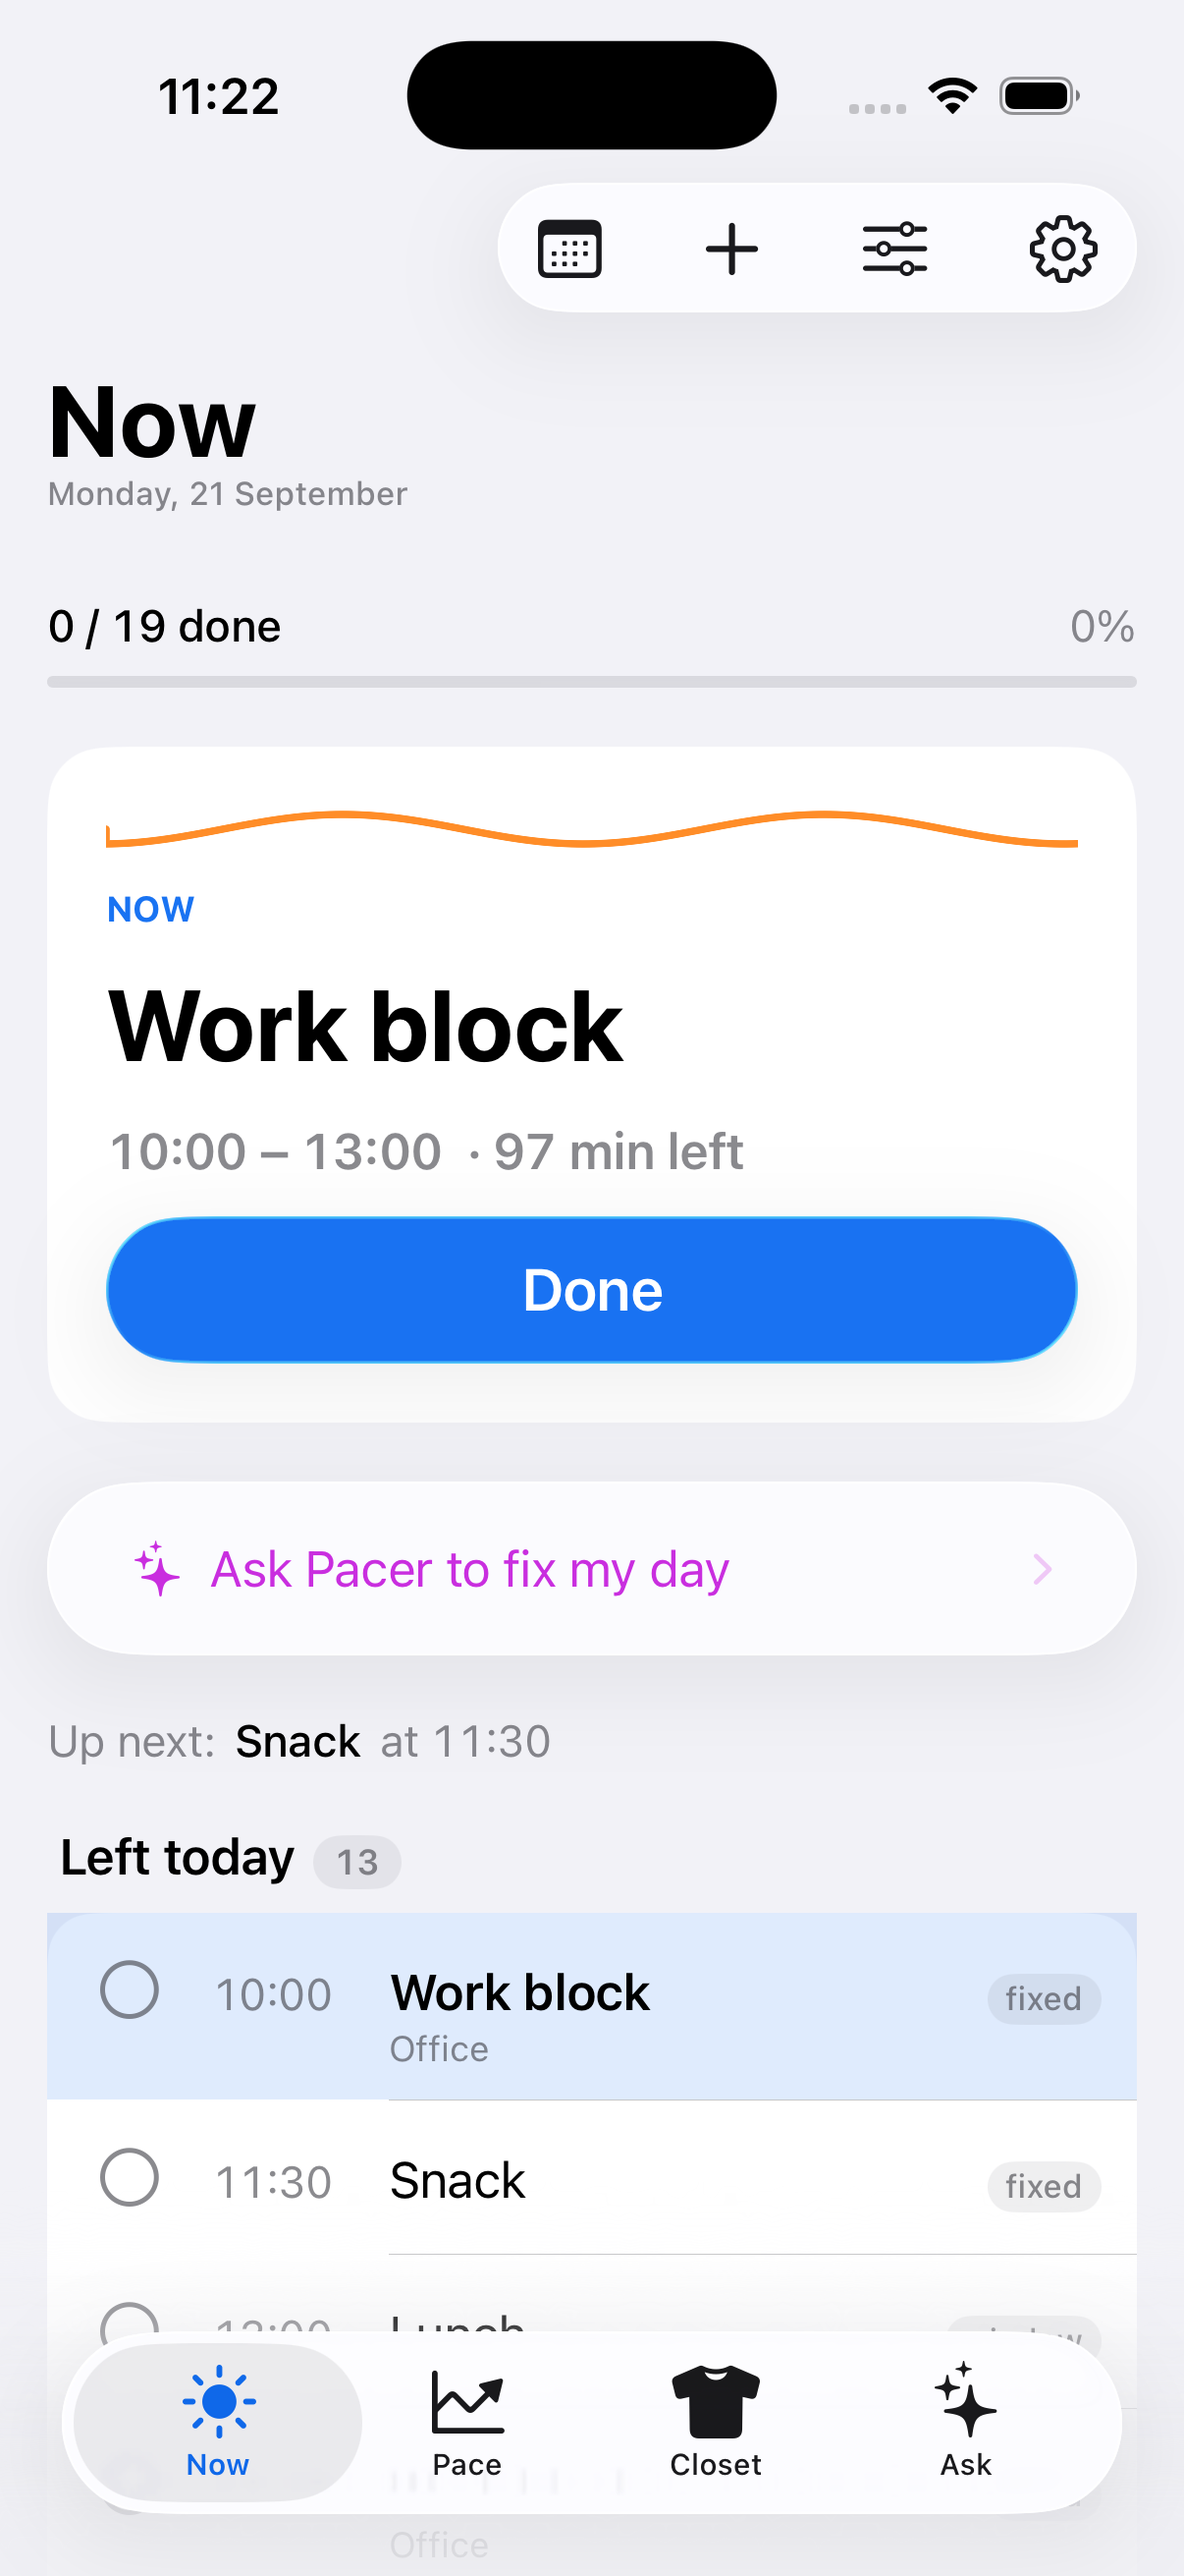
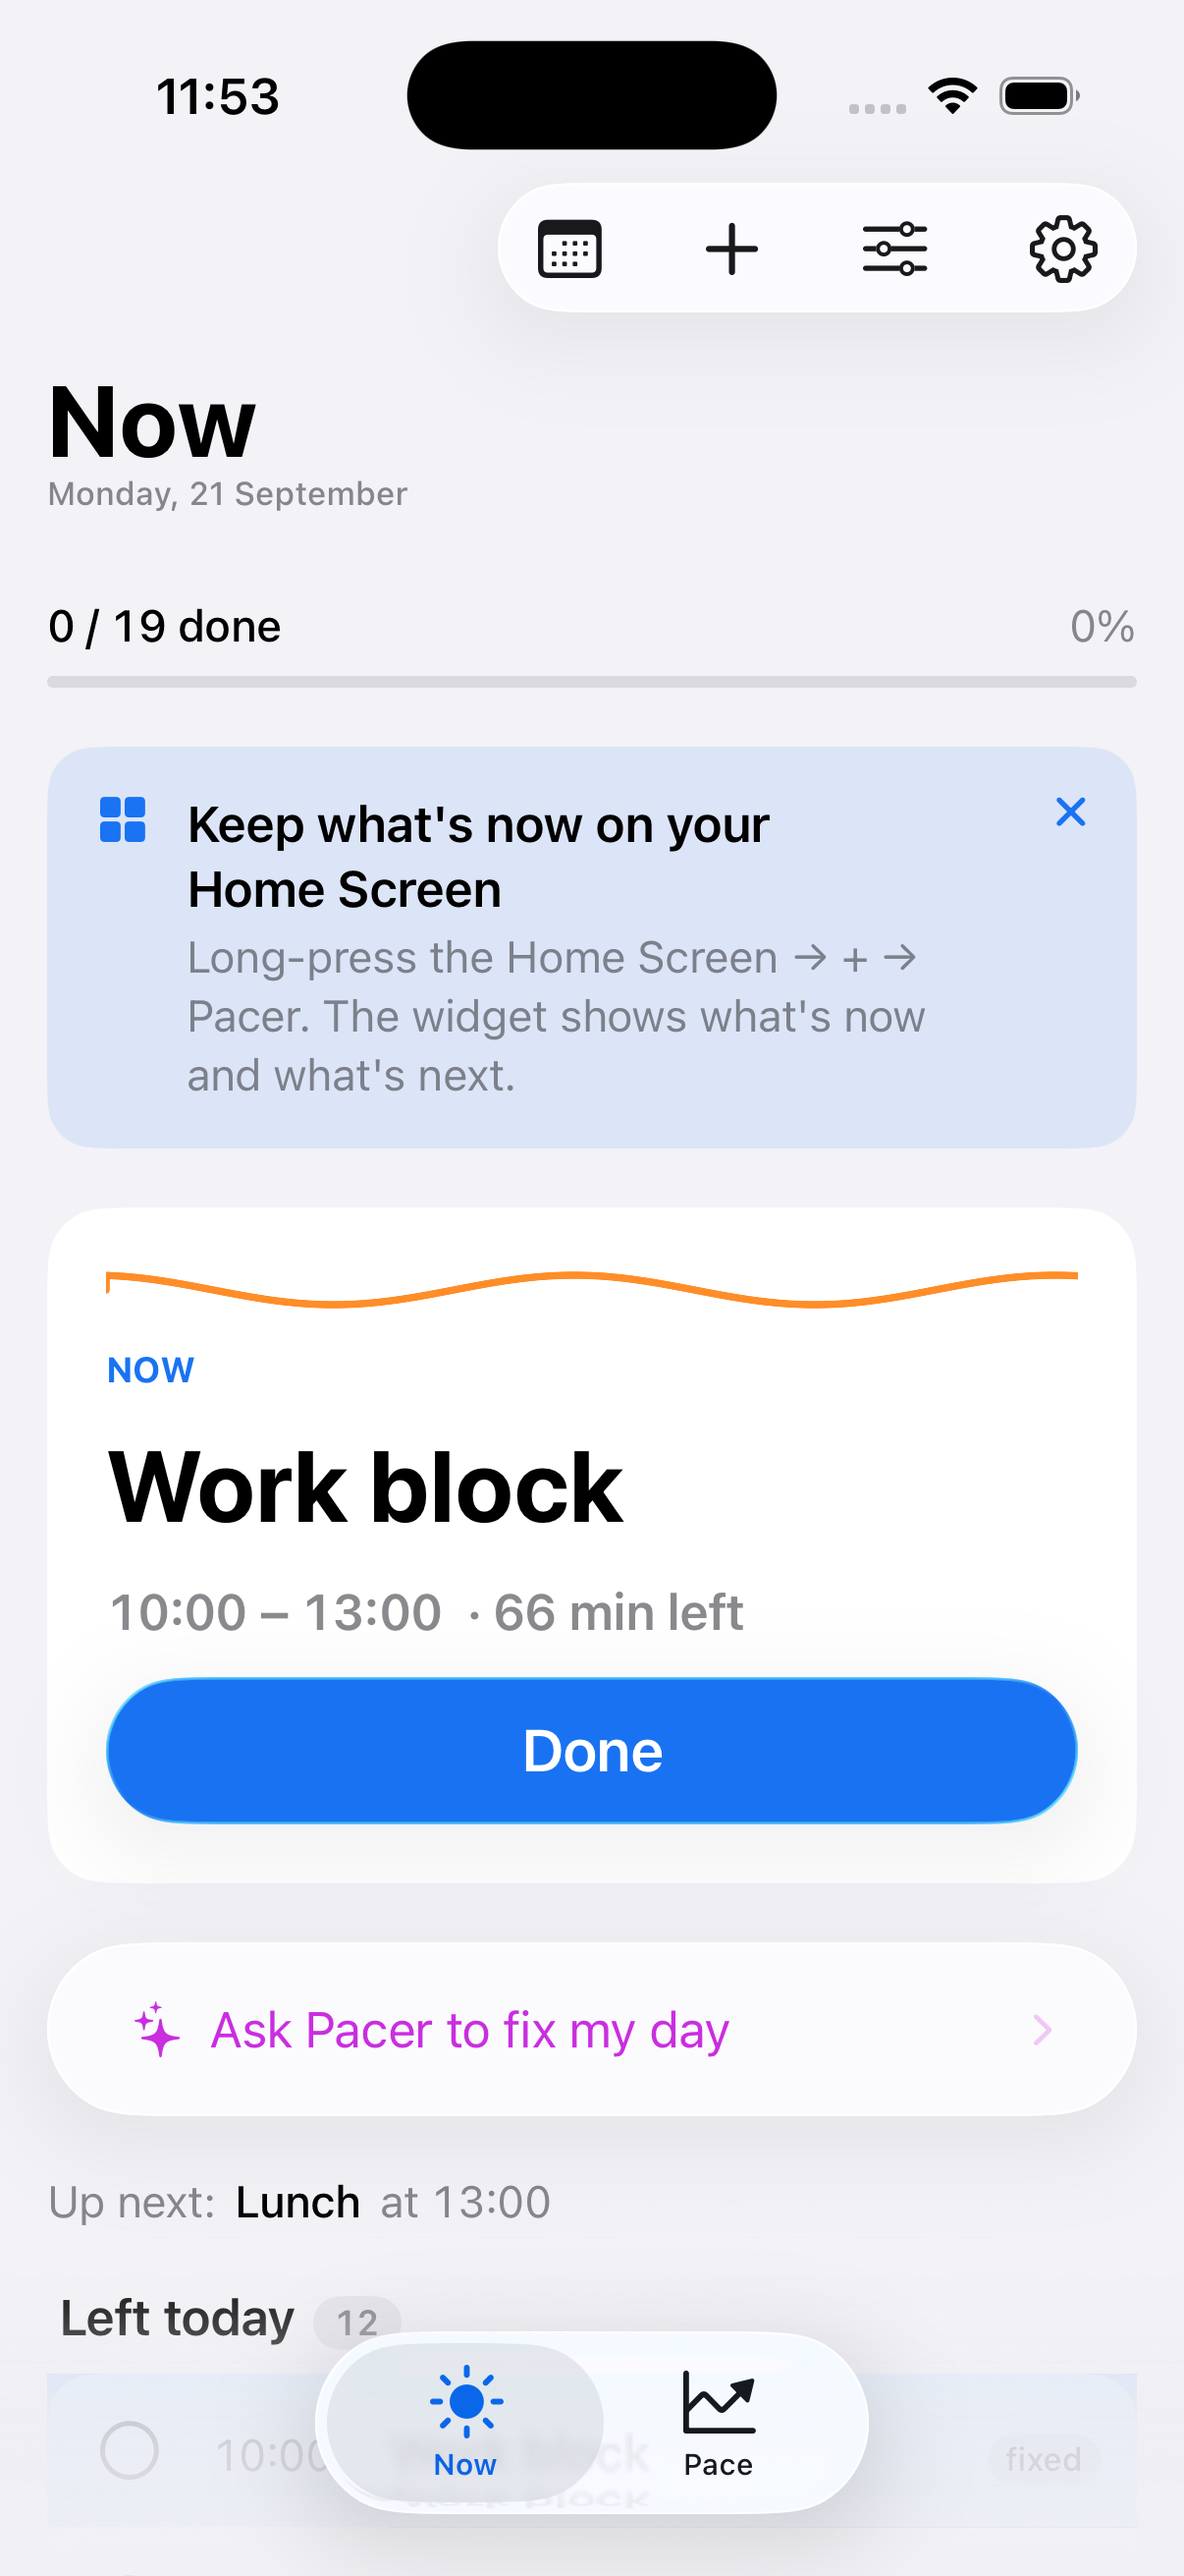
Tone pass and the day-2 widget card (#57)
- Misses are decisions, not failures: orange instead of red everywhere on
  Now, "Needs a decision" instead of "Missed", "SLIPPED" instead of
  "OVERDUE", Done stays the accent colour. The evening review lists what
  got done first.
- A dismissable card on Now for the first three days: how to add the
  widget, so Pacer stays in sight after day 2 (USERS.md #6). The block
  Live Activity already starts on the first block (liveActivity default).

Closes #52, closes #53.

Claude-Session: https://claude.ai/code/session_01BwgQ6cpAnmscoVwwfDapLT

diff --git a/Sources/Views/DayView.swift b/Sources/Views/DayView.swift
@@ -24,6 +24,7 @@ struct DayView: View {
     @State private var showTomorrow = false
     @State private var showingDays = false
     @State private var openDay: Date?
+    @State private var widgetCardDismissed = UserDefaults.standard.bool(forKey: "widgetCardDismissed")
     private var persistence: PersistenceState { PersistenceState.shared }
 
     private let calendar = Calendar.current
@@ -60,6 +61,7 @@ struct DayView: View {
                     progress
                     if let error = persistence.lastError { persistenceBanner(error) }
                     if notificationsDenied && !bannerDismissed { permissionBanner }
+                    if showWidgetCard { widgetCard }
                     NowCard(
                         block: current,
                         allDone: doneCount == counted.count,
@@ -78,7 +80,7 @@ struct DayView: View {
                     section("Left today", count: leftToday.count, blocks: leftToday, empty: "Nothing left on the plan.")
                     if isEvening && !missed.isEmpty { review }
                     else if !missed.isEmpty {
-                        section("Missed", count: missed.count, blocks: missed, empty: nil, hint: "Hold a row to move it later or skip it today.")
+                        section("Needs a decision", count: missed.count, blocks: missed, empty: nil, hint: "Hold a row to move it later or skip it today.")
                     }
                     if !finished.isEmpty { section("Done", count: nil, blocks: finished, empty: nil) }
                     tomorrow
@@ -209,6 +211,35 @@ struct DayView: View {
         .background(Color.red.opacity(0.12), in: RoundedRectangle(cornerRadius: 16))
     }
 
+    /// Day 1–3: the one thing that keeps Pacer in sight after the app is forgotten (USERS.md #6).
+    private var showWidgetCard: Bool {
+        guard !widgetCardDismissed, !plan.needsOnboarding else { return false }
+        let key = "firstLaunchDay"
+        if UserDefaults.standard.object(forKey: key) == nil { UserDefaults.standard.set(now, forKey: key) }
+        let first = UserDefaults.standard.object(forKey: key) as? Date ?? now
+        return (calendar.dateComponents([.day], from: first, to: now).day ?? 0) < 3
+    }
+
+    private var widgetCard: some View {
+        HStack(alignment: .top, spacing: 12) {
+            Image(systemName: "square.grid.2x2.fill").foregroundStyle(Color.accentColor)
+            VStack(alignment: .leading, spacing: 4) {
+                Text("Keep what's now on your Home Screen").font(.headline)
+                Text("Long-press the Home Screen → + → Pacer. The widget shows what's now and what's next.")
+                    .font(.subheadline).foregroundStyle(.secondary)
+            }
+            Spacer()
+            Button {
+                widgetCardDismissed = true
+                UserDefaults.standard.set(true, forKey: "widgetCardDismissed")
+            } label: { Image(systemName: "xmark").font(.caption.weight(.bold)) }
+                .accessibilityLabel("Dismiss")
+        }
+        .padding()
+        .background(Color.accentColor.opacity(0.10), in: RoundedRectangle(cornerRadius: 16))
+        .transition(.opacity)
+    }
+
     private var permissionBanner: some View {
         HStack(alignment: .top, spacing: 12) {
             Image(systemName: "bell.slash.fill").foregroundStyle(.orange)
@@ -259,8 +290,8 @@ struct DayView: View {
                 if let count {
                     Text("\(count)").font(.caption.weight(.semibold)).monospacedDigit()
                         .padding(.horizontal, 7).padding(.vertical, 2)
-                        .background(title == "Missed" ? Color.red.opacity(0.12) : Color(uiColor: .tertiarySystemFill), in: Capsule())
-                        .foregroundStyle(title == "Missed" ? .red : .secondary)
+                        .background(title == "Needs a decision" ? Color.orange.opacity(0.14) : Color(uiColor: .tertiarySystemFill), in: Capsule())
+                        .foregroundStyle(title == "Needs a decision" ? .orange : .secondary)
                         .contentTransition(.numericText())
                 }
                 if let hint {
@@ -321,11 +352,18 @@ struct DayView: View {
                 Text("Day review").font(.headline)
                 Text("\(missed.count)").font(.caption.weight(.semibold)).monospacedDigit()
                     .padding(.horizontal, 7).padding(.vertical, 2)
-                    .background(Color.red.opacity(0.12), in: Capsule()).foregroundStyle(.red)
+                    .background(Color.orange.opacity(0.14), in: Capsule()).foregroundStyle(.orange)
                 Spacer()
                 Text("\(doneCount) of \(counted.count) done").font(.caption).foregroundStyle(.secondary)
             }
             .padding(.horizontal, 4)
+            if doneCount > 0 {
+                // What went right comes first; the slips below are decisions, not failures.
+                let done = blocks.filter { completed.contains($0.id) }.map(\.label)
+                Label("\(done.prefix(4).joined(separator: ", "))\(done.count > 4 ? " +\(done.count - 4)" : "")", systemImage: "checkmark.circle.fill")
+                    .font(.subheadline).foregroundStyle(.green).lineLimit(2)
+                    .padding(.horizontal, 4)
+            }
             VStack(spacing: 0) {
                 ForEach(missed) { block in
                     HStack(spacing: 10) {

diff --git a/Sources/Views/BlockRow.swift b/Sources/Views/BlockRow.swift
@@ -27,7 +27,7 @@ struct BlockRow: View {
                 .accessibilityLabel(status == .done ? "Mark not done" : "Mark done")
                 Text(timeText)
                     .font(.subheadline.monospacedDigit().weight(status == .missed ? .semibold : .regular))
-                    .foregroundStyle(status == .missed ? .red : .secondary)
+                    .foregroundStyle(status == .missed ? .orange : .secondary)
                     .frame(width: 48, alignment: .leading)
                 VStack(alignment: .leading, spacing: 2) {
                     HStack(spacing: 6) {
@@ -82,8 +82,8 @@ struct BlockRow: View {
             .font(.caption2.weight(.medium))
             .padding(.horizontal, 6)
             .padding(.vertical, 2)
-            .background(status == .missed ? Color.red.opacity(0.12) : Color(uiColor: .tertiarySystemFill), in: Capsule())
-            .foregroundStyle(status == .missed ? .red : .secondary)
+            .background(status == .missed ? Color.orange.opacity(0.14) : Color(uiColor: .tertiarySystemFill), in: Capsule())
+            .foregroundStyle(status == .missed ? .orange : .secondary)
             .contentTransition(.interpolate)
     }
 

diff --git a/Sources/Views/NowCard.swift b/Sources/Views/NowCard.swift
@@ -17,9 +17,9 @@ struct NowCard: View {
             PaceLine(behind: behind && !allDone)
             if let block {
                 let status = block.status(now: now, completed: completed, calendar: calendar)
-                Text(status == .missed ? "OVERDUE" : "NOW")
+                Text(status == .missed ? "SLIPPED" : "NOW")
                     .font(.caption.weight(.bold))
-                    .foregroundStyle(status == .missed ? .red : .accentColor)
+                    .foregroundStyle(status == .missed ? .orange : .accentColor)
                 Text(block.label)
                     .font(.largeTitle.weight(.bold))
                     .fixedSize(horizontal: false, vertical: true)
@@ -53,7 +53,7 @@ struct NowCard: View {
                     .padding(.vertical, 6)
                 }
                 .buttonStyle(.glassProminent)
-                .tint(closing ? .green : status == .missed ? .red : .accentColor)
+                .tint(closing ? .green : .accentColor)
                 .scaleEffect(closing ? 1.03 : 1)
                 .sensoryFeedback(.success, trigger: closing)
                 if status == .missed {
